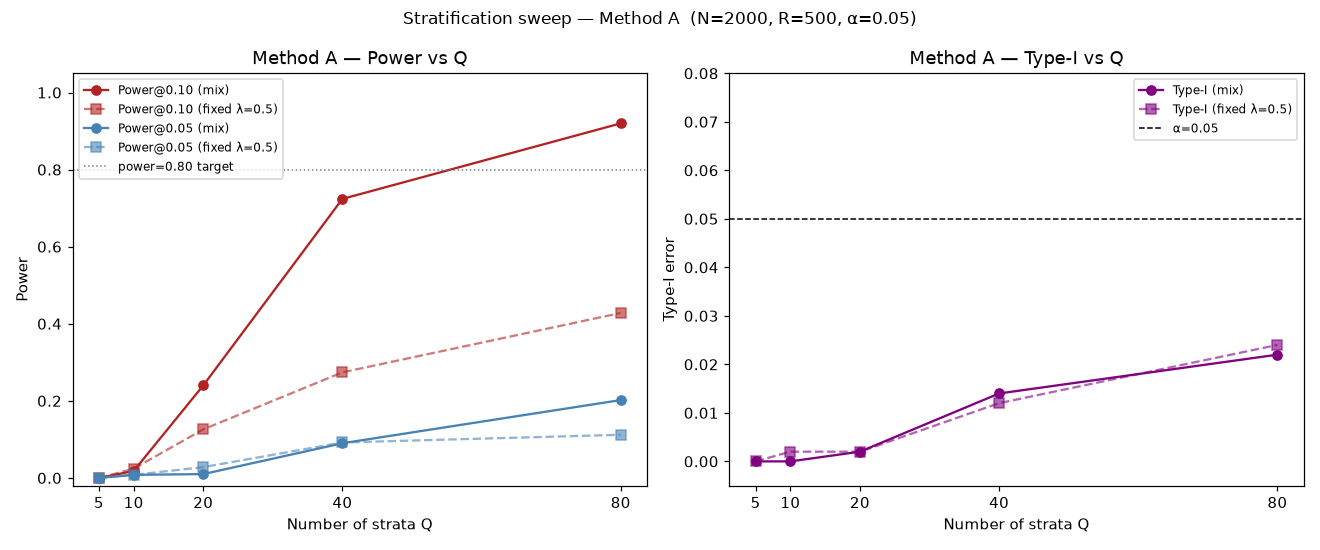
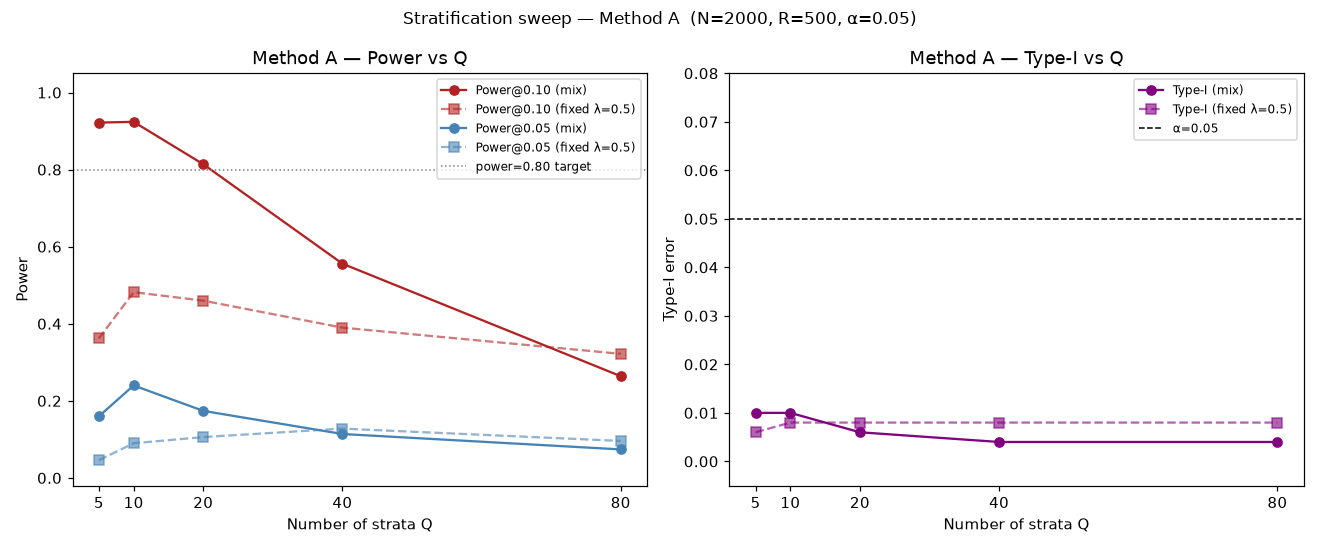
fix: quadratic slack 2eps^2 + fresh-pair wiring in Leg-3 e-process
Clio's review (independently verified) found two correctness errors plus a
wiring gap in the cross-item co-failure e-process.

Slack (linear -> quadratic). The per-block null slack is T <= 1/2 R_i R_j
with R = 2 eps, so the correct per-cell slack is 1/2 R^2 = 2 eps^2, QUADRATIC
in eps (census_prop1_derivation.md Sec. 3). The code used the linear 2*eps,
valid but loose by 1/eps (20x-320x over the Q-sweep). Replaced with 2*eps**2
in eprocess.py (method_A, method_A_online) and run_qsweep.py (method_A_Q and
the realized-bias diagnostic), and fixed NOTES-5b. The lambda positivity cap
is recomputed consistently as 1/(1+2*eps**2) (the tight per-item cap; reduces
to the b=3/2 => lam_max=2/3 universal bound at the eps=1/2 design bound).

Fresh-pair wiring. make_within_block_pairing (the anytime-valid Prop. 3
construction: partner is a same-stratum item in the SAME block, so neither
partner's outcome is in F_{m-1} when the block-m bet is set) was wired into no
runnable entry point. Replaced make_derangement_within_strata (method_A,
run_qsweep) and the DEPRECATED/BUGGY make_online_past_pairing (method_A_online,
which broke anytime validity, Type-I -> 1) with the fresh-pair construction.
method_B is a deliberately-invalid ablation (delta=0, unstratified) and is left
as-is with a clarifying note. Derangement/past-only functions kept for the
documented-wrong baselines that reference them.

Validation. verify_prop3_freshpair.py acceptance test: all 7 predictable
[…]

diff --git a/code/evalue/eprocess.py b/code/evalue/eprocess.py
@@ -21,7 +21,9 @@ import numpy as np
 
 # ── Stratification helpers ─────────────────────────────────────────────────────
 
-Q = 5   # number of strata
+Q = 5      # number of strata
+BLOCK = 20 # items per simultaneous-batch block (matches the §5b harness); used by the
+           # fresh-pair within-block pairing that provides anytime validity (Clio Prop. 3).
 
 def assign_strata(theta: np.ndarray, Q: int = Q) -> np.ndarray:
     """
@@ -208,16 +210,29 @@ def accumulate_wealth(
     Args:
         U:            same-item co-failure indicator (N,)
         V:            cross-item product (N,)
-        delta:        per-item conservative slack delta_k = 2*epsilon_k (N,)
+        delta:        per-item conservative slack delta_k = 2*epsilon_k**2 (N,)
+                      (QUADRATIC slack 1/2 R^2 = 2 eps^2, R = 2 eps; see
+                      census_prop1_derivation.md Sec. 3.  The old LINEAR 2*eps was
+                      valid but loose by a factor 1/eps — Clio's Prop. 2 review.)
         lam:          fixed betting fraction
-        clip_lam:     if True, clip lam per item to [0, 1/(1+2*eps)] to keep e_s >= 0
+        clip_lam:     if True, clip lam per item to [0, 1/(1+delta)] to keep e_s >= 0.
+                      The positivity bound is lam <= 1/(1+delta) with delta = 2*eps**2
+                      (increment U-V-delta in [-(1+delta), 1-delta]); this is the tight
+                      per-item cap consistent with the quadratic slack.  With the
+                      universal design bound eps=1/2 (delta=1/2) it reduces to the
+                      b=3/2 => lam_max=2/3 universal bound of Clio's note.
         eps_per_item: required when clip_lam=True; per-item epsilon
 
     Returns:
         M: wealth array of shape (N,), M[t] = product over s=0..t
     """
     if clip_lam and eps_per_item is not None:
-        lam_max = 1.0 / (1.0 + 2.0 * eps_per_item)
+        # Positivity cap consistent with the QUADRATIC slack delta = 2*eps**2:
+        # increment U - V - delta lies in [-(1+delta), 1-delta], so the factor
+        # 1 + lam*(U-V-delta) >= 0 requires lam <= 1/(1+delta) = 1/(1+2*eps**2).
+        # (The old 1/(1+2*eps) was tied to the linear slack; it is still valid here
+        # since 2*eps >= 2*eps**2, but 1/(1+2*eps**2) is the tight per-item cap.)
+        lam_max = 1.0 / (1.0 + 2.0 * eps_per_item ** 2)
         lam_eff = np.minimum(lam, lam_max)
     else:
         lam_eff = lam
@@ -291,7 +306,8 @@ def accumulate_wealth_online(
     N = len(U)
 
     if clip_lam and eps_per_item is not None:
-        lam_max = 1.0 / (1.0 + 2.0 * eps_per_item)
+        # Positivity cap for the QUADRATIC slack delta = 2*eps**2 (see accumulate_wealth).
+        lam_max = 1.0 / (1.0 + 2.0 * eps_per_item ** 2)
         lam_eff = np.minimum(lam, lam_max)
     else:
         lam_eff = np.full(N, lam) if np.isscalar(lam) else np.array(lam, dtype=float)
@@ -335,9 +351,13 @@ def accumulate_wealth_online_mixture(
 def method_A(data: dict, rng: np.random.Generator) -> dict:
     """
     Method A — STRATIFIED cross-item e-process (the proposed method).
-    t(s) is a derangement WITHIN the same stratum.
-    delta_k = 2 * epsilon_k (stratum-specific conservative slack).
-    lambda clipped to [0, 1/(1+2*eps)] per item.
+    t(s) is a FRESH-PAIR within-block, within-stratum partner (Clio Prop. 3):
+    neither partner's outcome is in F_{m-1} when the block-m bet is set, so the
+    e-process is anytime-valid (unlike the old whole-stream derangement / past-only
+    pairing).  rng is accepted for signature compatibility but unused: the fresh-pair
+    map is a deterministic cyclic roll within each (block, stratum) cell.
+    delta_k = 2 * epsilon_k**2 (QUADRATIC slack 1/2 R^2 = 2 eps^2, R = 2 eps;
+    census_prop1_derivation.md Sec. 3).  lambda clipped to [0, 1/(1+2*eps**2)] per item.
     Returns dict with 'M_fixed', 'M_mix', 'delta_per_item', 'eps_per_item'.
     """
     W_i, W_j = data['W_i'], data['W_j']
@@ -347,13 +367,14 @@ def method_A(data: dict, rng: np.random.Generator) -> dict:
 
     strata = assign_strata(theta)
     eps_k = stratum_epsilon(p_i, p_j, strata)   # shape (Q,)
-    t = make_derangement_within_strata(strata, rng)
+    block_ids = np.arange(N) // BLOCK
+    t = make_within_block_pairing(strata, block_ids)   # fresh disjoint-item pairs
 
     U = W_i * W_j
     V = W_i[np.arange(N)] * W_j[t]              # i on item s, j on different item t(s)
 
     eps_per_item = eps_k[strata]                 # shape (N,)
-    delta = 2.0 * eps_per_item
+    delta = 2.0 * eps_per_item ** 2             # QUADRATIC slack (1/2 R^2 = 2 eps^2)
 
     M_fixed = accumulate_wealth(U, V, delta, lam=0.5, clip_lam=True, eps_per_item=eps_per_item)
     M_mix   = accumulate_wealth_mixture(U, V, delta, clip_lam=True, eps_per_item=eps_per_item)
@@ -363,13 +384,19 @@ def method_A(data: dict, rng: np.random.Generator) -> dict:
 
 def method_A_online(data: dict, rng: np.random.Generator) -> dict:
     """
-    Method A (online/past-only) — STRATIFIED cross-item e-process with predictable pairing.
+    Method A (online/anytime-valid) — STRATIFIED cross-item e-process with predictable
+    FRESH-PAIR pairing.
 
-    Uses make_online_past_pairing so that t(s) is strictly a past item (F_{s-1}-measurable).
-    Items with no prior same-stratum partner make no bet (factor = 1).
-    This satisfies the anytime/sequential validity requirement.
+    Uses make_within_block_pairing (Clio Prop. 3): t(s) is another SAME-stratum item in
+    the SAME block, so when the block-m bet is set (F_{m-1}-measurable) neither W_j[s] nor
+    W_j[t(s)] has been revealed.  This is the correct anytime/sequential-validity
+    construction.  (The previous make_online_past_pairing is DEPRECATED/BUGGY — its
+    partner outcome is already F_{s-1}-measurable, letting a predictable bettor drive
+    Type-I to 1.000 on the observable {W_j[t(s)]=0} event; see its docstring.)
+    rng is accepted for signature compatibility but unused (deterministic cyclic roll).
+    Cells of size < 2 make no bet (factor = 1), via the has_partner sentinel.
 
-    Identical to method_A in every other respect: stratification, delta_k, lambda clipping.
+    delta_k = 2 * epsilon_k**2 (quadratic slack); lambda clipped to [0, 1/(1+2*eps**2)].
     Returns dict with 'M_fixed', 'M_mix', 'delta_per_item', 'eps_per_item'.
     """
     W_i, W_j = data['W_i'], data['W_j']
@@ -379,10 +406,11 @@ def method_A_online(data: dict, rng: np.random.Generator) -> dict:
 
     strata = assign_strata(theta)
     eps_k = stratum_epsilon(p_i, p_j, strata)
-    t = make_online_past_pairing(strata, rng)
+    block_ids = np.arange(N) // BLOCK
+    t = make_within_block_pairing(strata, block_ids)   # fresh disjoint-item pairs
 
-    # has_partner[s] is True iff t[s] < s (a valid F_{s-1}-measurable past partner exists)
-    # Sentinel: t[s] == s (no prior same-stratum item); these make no bet (factor=1).
+    # has_partner[s] is True iff t[s] != s (the cell has >= 2 items so a fresh partner
+    # exists).  Sentinel: t[s] == s (singleton cell); these make no bet (factor=1).
     has_partner = (t != np.arange(N))
 
     U = W_i * W_j
@@ -391,7 +419,7 @@ def method_A_online(data: dict, rng: np.random.Generator) -> dict:
     V = W_i * W_j[t]
 
     eps_per_item = eps_k[strata]
-    delta = 2.0 * eps_per_item
+    delta = 2.0 * eps_per_item ** 2             # QUADRATIC slack (1/2 R^2 = 2 eps^2)
 
     M_fixed = accumulate_wealth_online(U, V, delta, has_partner, lam=0.5,
                                         clip_lam=True, eps_per_item=eps_per_item)
@@ -406,6 +434,11 @@ def method_B(data: dict, rng: np.random.Generator) -> dict:
     Method B — UNSTRATIFIED cross-item e-process (ablation).
     t(s) is a derangement over the WHOLE stream (ignores strata).
     delta = 0. Expected to pick up shared-difficulty covariance under H0.
+
+    NOTE: this is a deliberately-INVALID ablation (no stratification, delta=0) kept to
+    demonstrate that the unstratified version falsely fires on shared-difficulty
+    marginal correlation.  It is NOT a validity claim, so it intentionally does NOT use
+    the fresh-pair within-block construction (that would change what the ablation shows).
     """
     W_i, W_j = data['W_i'], data['W_j']
     N = len(W_i)

diff --git a/code/evalue/run_qsweep.py b/code/evalue/run_qsweep.py
@@ -6,7 +6,7 @@ For each Q reports:
   - Type-I error on NULL DGP
   - Power on ALT gamma=0.05 and ALT gamma=0.10
   - Median detection time on ALT gamma=0.10 (among runs that fire)
-  - Realized-bias diagnostic: eps_bar, delta=2*eps_bar, mean within-stratum bias, ratio
+  - Realized-bias diagnostic: eps_bar, delta=2*eps_bar**2, mean within-stratum bias, ratio
 
 Fixed params: N=2000, R=500, alpha=0.05, threshold=20, seed=42.
 Lambda modes: mixture over {0.1,...,0.9} AND fixed lambda=0.5.
@@ -20,8 +20,9 @@ import numpy as np
 
 from dgp import null_dgp, alt_dgp
 from eprocess import (
-    assign_strata, stratum_epsilon, make_derangement_within_strata,
-    accumulate_wealth, accumulate_wealth_mixture, ville_reject, THRESHOLD
+    assign_strata, stratum_epsilon, make_within_block_pairing,
+    accumulate_wealth, accumulate_wealth_mixture, ville_reject, THRESHOLD,
+    BLOCK,
 )
 
 # ── Parameters ──────────────────────────────────────────────────────────────────
@@ -46,13 +47,14 @@ def method_A_Q(data: dict, rng: np.random.Generator, Q: int) -> dict:
 
     strata       = assign_strata(theta, Q=Q)
     eps_k        = stratum_epsilon(p_i, p_j, strata, Q=Q)
-    t            = make_derangement_within_strata(strata, rng, Q=Q)
+    block_ids    = np.arange(N_items) // BLOCK
+    t            = make_within_block_pairing(strata, block_ids, Q=Q)  # fresh disjoint pairs
 
     U            = W_i * W_j
     V            = W_i[np.arange(N_items)] * W_j[t]
 
     eps_per_item = eps_k[strata]
-    delta        = 2.0 * eps_per_item
+    delta        = 2.0 * eps_per_item ** 2   # QUADRATIC slack (1/2 R^2 = 2 eps^2)
 
     M_fixed = accumulate_wealth(U, V, delta, lam=0.5, clip_lam=True,
                                 eps_per_item=eps_per_item)
@@ -71,7 +73,7 @@ def realized_bias_for_Q(Q: int, seed: int, R_diag: int = 200) -> dict:
     = E[U - V] per stratum (should be ~0 under H0, but within-stratum
     variation in p(theta) means a single cross-pair can have nonzero mean).
 
-    Returns eps_bar (mean eps over strata), delta=2*eps_bar,
+    Returns eps_bar (mean eps over strata), delta=2*eps_bar**2 (quadratic slack),
     realized_bias (mean over strata of per-stratum |E[U-V]| on null data),
     and the ratio delta/realized_bias.
     """
@@ -90,6 +92,14 @@ def realized_bias_for_Q(Q: int, seed: int, R_diag: int = 200) -> dict:
     W_j_all = (rng.uniform(size=N_big) < p_j_all).astype(int)
 
     strata_all = assign_strata(theta_all, Q=Q)
+    # Build the SAME fresh-pair within-block partner map used by method_A_Q, so the
+    # realized-bias diagnostic measures E[U - V] under the exact pairing the e-process
+    # bets on (not an ad-hoc whole-stratum np.roll).
+    block_ids_all = np.arange(N_big) // BLOCK
+    t_all = make_within_block_pairing(strata_all, block_ids_all, Q=Q)
+    has_partner = (t_all != np.arange(N_big))
+    U_all = W_i_all * W_j_all
+    V_all = W_i_all * W_j_all[t_all]
 
     eps_k   = np.zeros(Q)
     bias_k  = np.zeros(Q)
@@ -105,17 +115,15 @@ def realized_bias_for_Q(Q: int, seed: int, R_diag: int = 200) -> dict:
             (p_i_all[mask].max() - p_i_all[mask].min()) / 2.0,
             (p_j_all[mask].max() - p_j_all[mask].min()) / 2.0,
         )
-        # within-stratum cross-product: pair items sequentially
-        # (a derangement would be ideal but sequential shift suffices for expectation)
-        idx = np.where(mask)[0]
-        # Shift by 1 within stratum
-        t_k  = np.roll(idx, 1)
-        U_k  = W_i_all[idx] * W_j_all[idx]
-        V_k  = W_i_all[idx] * W_j_all[t_k]
-        bias_k[k] = np.abs((U_k - V_k).mean())
+        # within-stratum cross-item bias, over items that have a fresh-pair partner
+        cell = mask & has_partner
+        if cell.sum() == 0:
+            bias_k[k] = 0.0
+            continue
+        bias_k[k] = np.abs((U_all[cell] - V_all[cell]).mean())
 
     eps_bar       = float(eps_k.mean())
-    delta_bar     = 2.0 * eps_bar
+    delta_bar     = 2.0 * eps_bar ** 2    # QUADRATIC slack (1/2 R^2 = 2 eps^2)
     bias_bar      = float(bias_k.mean())
     ratio         = delta_bar / bias_bar if bias_bar > 1e-12 else float('inf')
 
@@ -260,7 +268,7 @@ def main():
     print("=" * 70)
     print("REALIZED-BIAS TABLE — NULL DGP, per-stratum diagnostic")
     print("=" * 70)
-    bh = f"{'Q':>4}  {'eps_bar':>8}  {'delta=2eps':>10}  {'real_bias':>10}  {'ratio':>7}"
+    bh = f"{'Q':>4}  {'eps_bar':>8}  {'delta=2eps^2':>12}  {'real_bias':>10}  {'ratio':>7}"
     print(bh)
     print("-" * 70)
     for bd in bias_rows:

diff --git a/code/evalue/NOTES-5b-stratified-combiners.md b/code/evalue/NOTES-5b-stratified-combiners.md
@@ -10,9 +10,9 @@ Items are partitioned into K difficulty strata by equal-width binning of latent 
 
 Within each stratum k, a Method-A cross-item e-process is built:
 - U_s = W_i^s * W_j^s (same-item co-failure)
-- V_s = W_i^s * W_j^{t(s)} where t(s) is a derangement within the stratum
-- delta_k = 2 * epsilon_k, where epsilon_k = (max - min)/2 of marginal probabilities within stratum k
-- Betting fraction lambda is clipped to [0, 1/(1+2*epsilon_k)] per item (ensures non-negative increments)
+- V_s = W_i^s * W_j^{t(s)} where t(s) is a FRESH-PAIR within-block, within-stratum partner (Clio Prop. 3): another same-stratum item in the same block, so neither partner's outcome is in F_{m-1} when the block-m bet is set (anytime-valid)
+- delta_k = 2 * epsilon_k**2 (QUADRATIC slack 1/2 R^2 = 2 eps^2, R = 2 eps; the old linear 2*epsilon_k was valid but loose by a factor 1/epsilon), where epsilon_k = (max - min)/2 of marginal probabilities within stratum k
+- Betting fraction lambda is clipped to [0, 1/(1+2*epsilon_k**2)] per item (ensures non-negative increments, consistent with the quadratic slack)
 - Per-stratum wealth M^(k) built by Robbins-style mixture over lambda in {0.1, 0.2, ..., 0.9}
 
 The per-stratum wealth streams are then combined into a single process via two methods:
